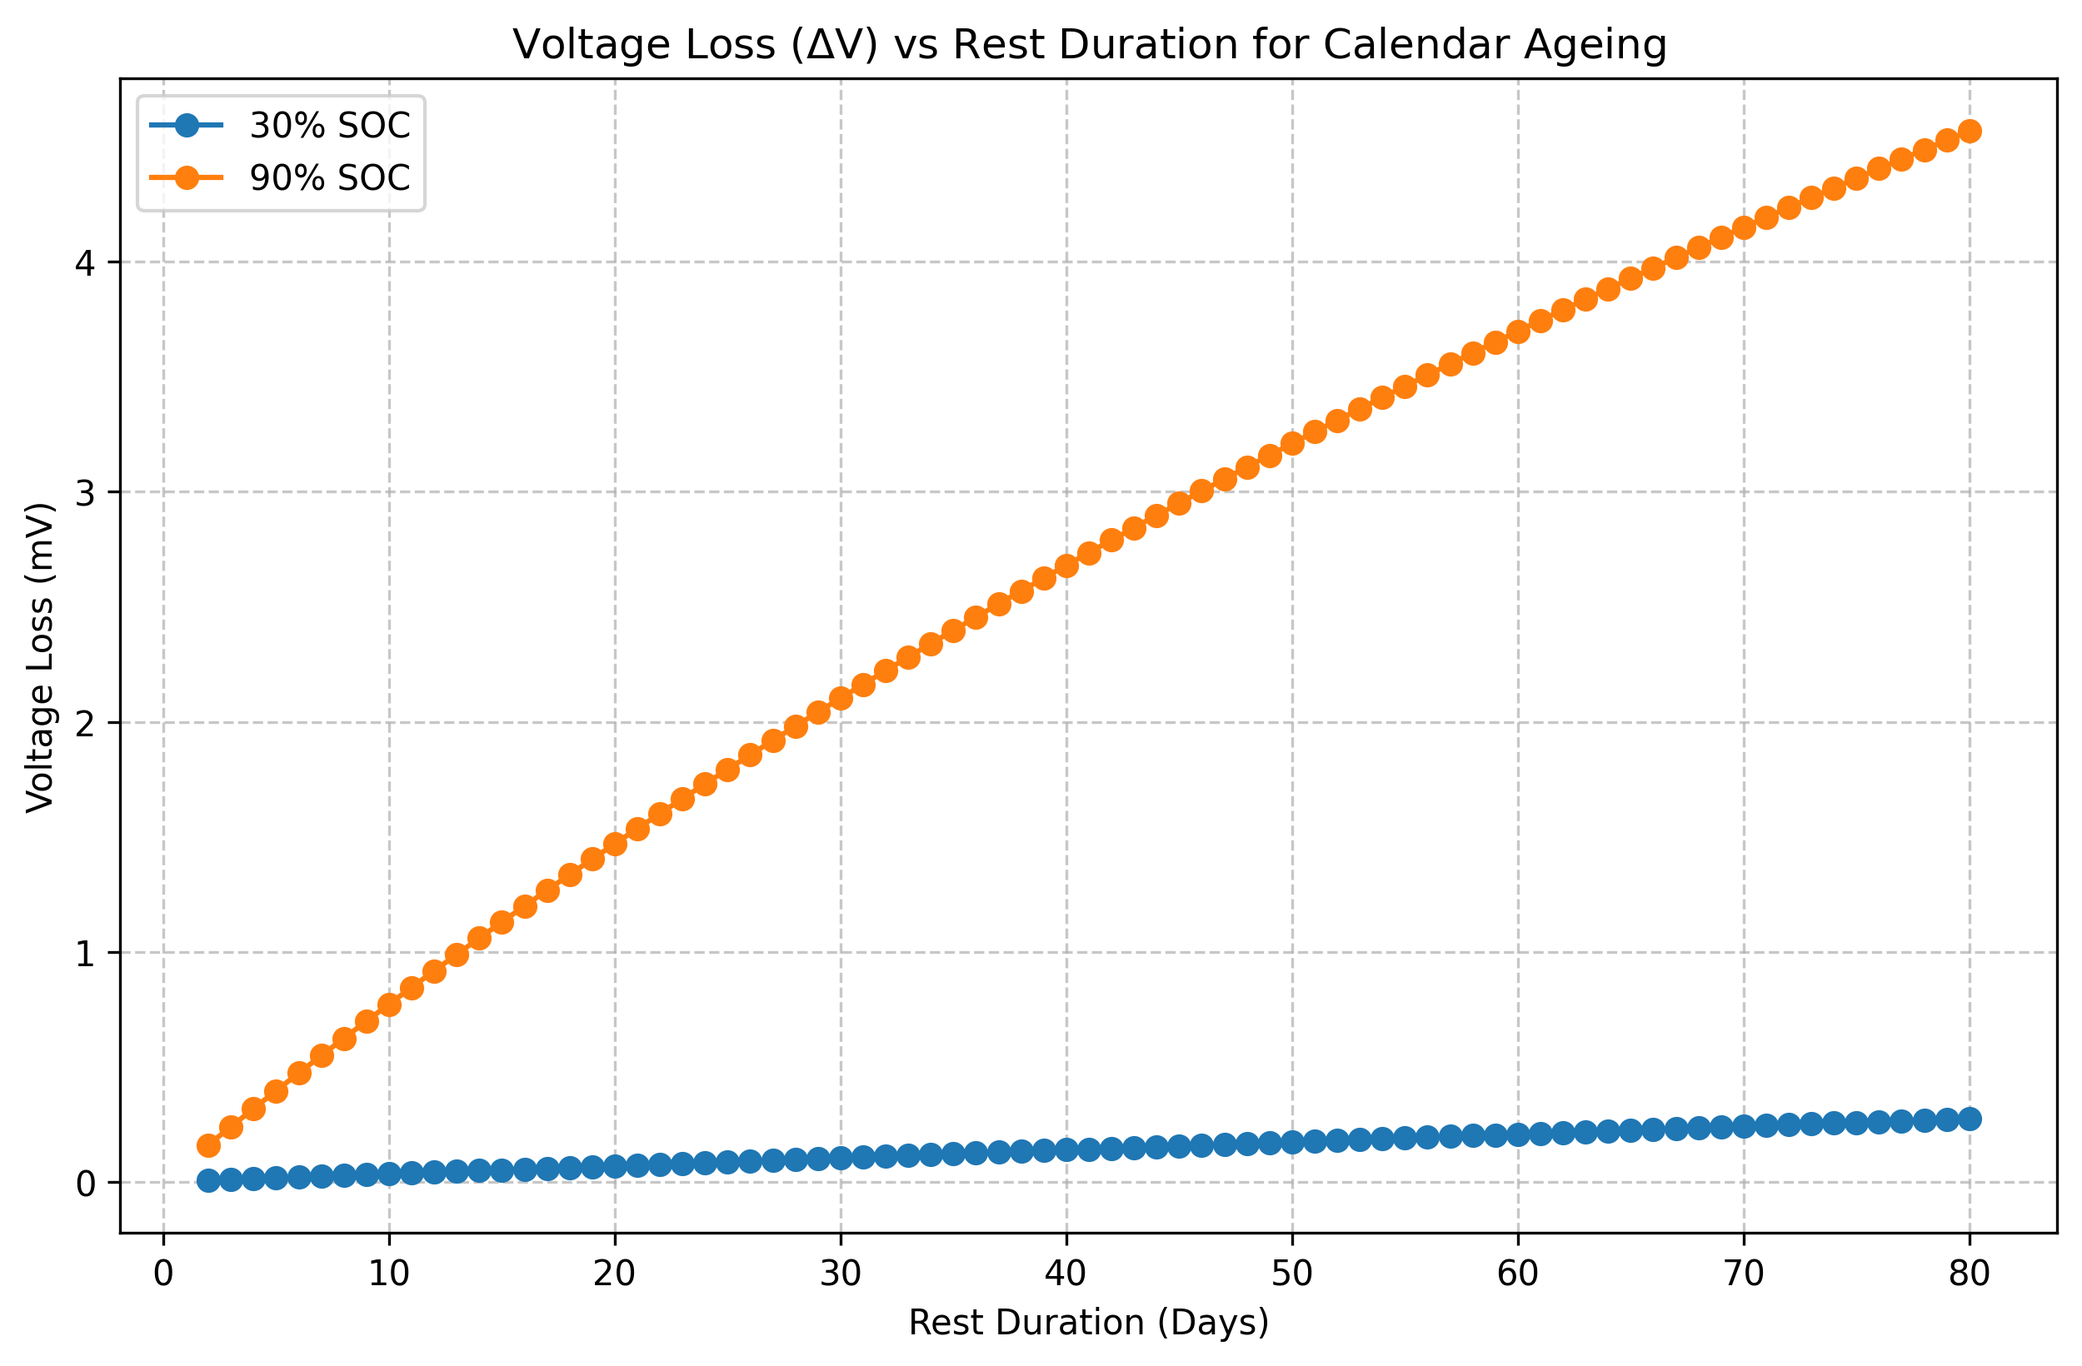
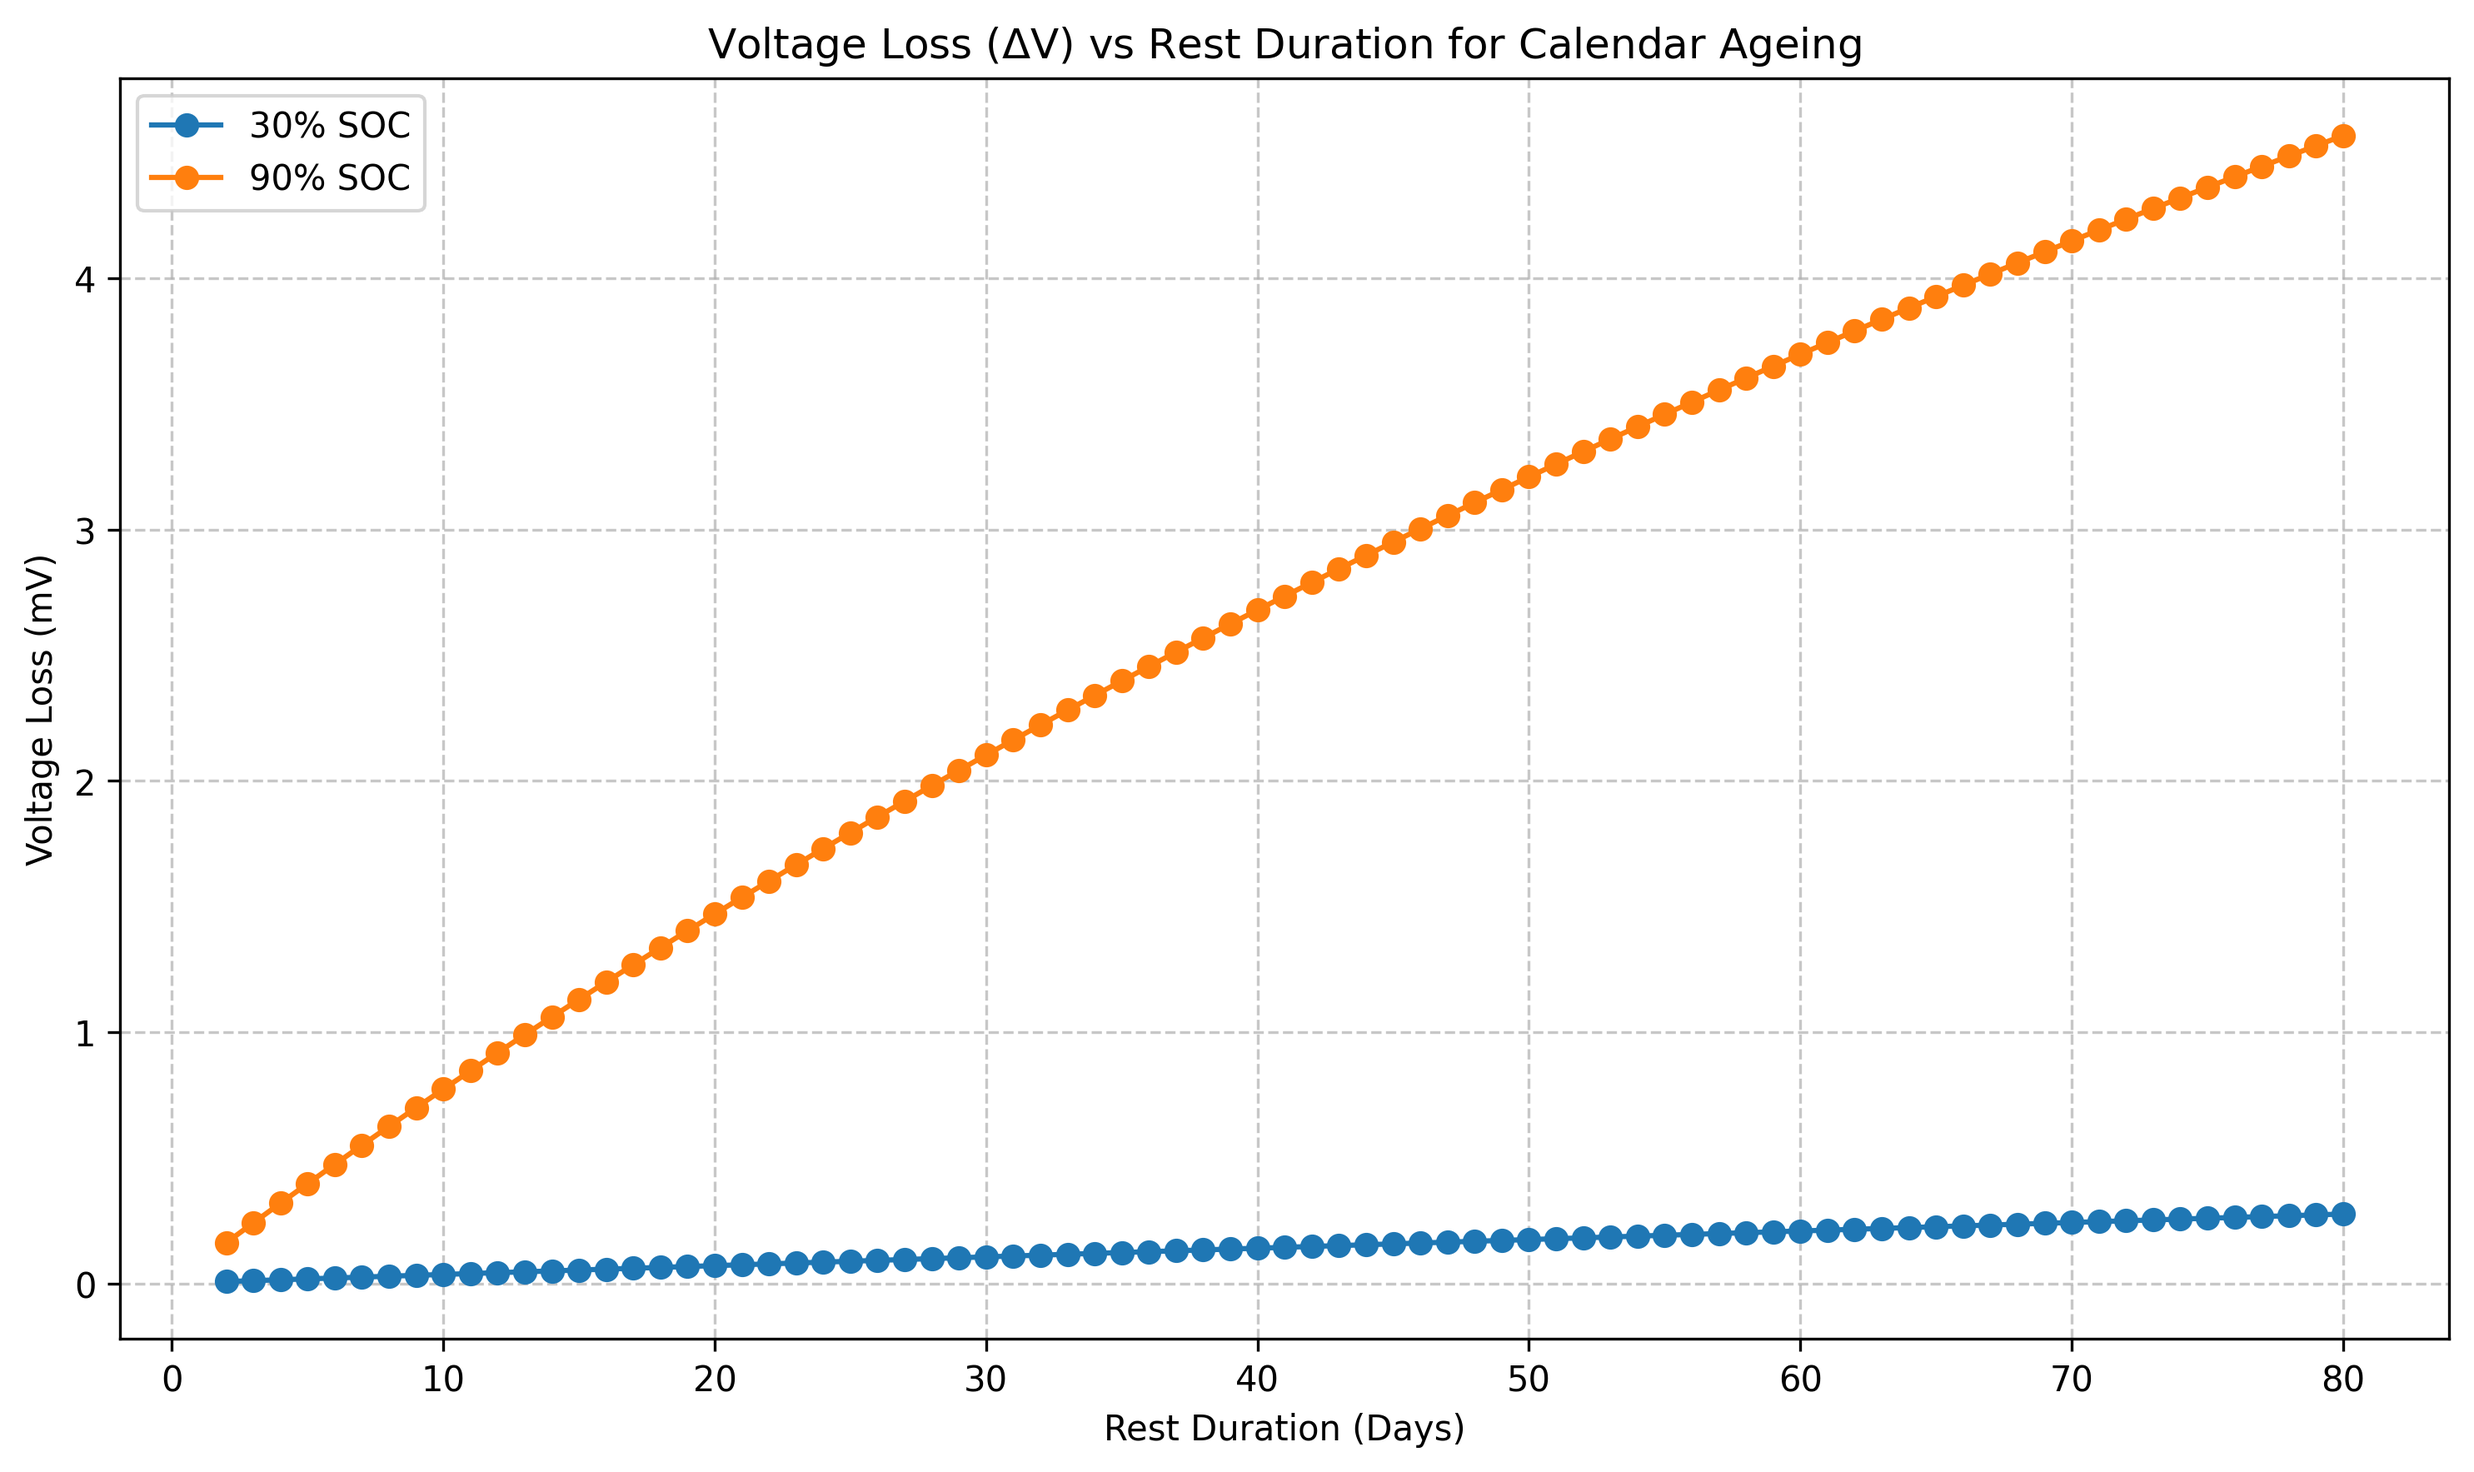
Refactor calendar ageing script for production readiness (argparse, logging, typing)

diff --git a/examples/scripts/calendar_ageing.py b/examples/scripts/calendar_ageing.py
@@ -1,101 +1,203 @@
+"""
+Calendar Ageing Simulation Script for PyBaMM.
+
+This script runs calendar ageing simulations using the Doyle-Fuller-Newman (DFN) model
+with reaction-limited SEI growth. It evaluates voltage loss across specified rest
+durations and Initial States of Charge (SOC), exporting results to a CSV and generating
+a comparative plot.
+
+Optimized for parallel execution using Python's concurrent.futures.
+"""
+
+import argparse
+import concurrent.futures
+import csv
+import logging
+import time
+from pathlib import Path
+from typing import List, Tuple, Optional, Any
+
+import matplotlib.pyplot as plt
 import numpy as np
 import pybamm as pb
-import concurrent.futures
-import time
-import csv
-import matplotlib.pyplot as plt
-from pathlib import Path
 
-pb.set_logging_level("WARNING")
 
-def run_simulation(args):
+def setup_logger(verbose: bool) -> logging.Logger:
+    """Configure logging for the script."""
+    level = logging.DEBUG if verbose else logging.INFO
+    logging.basicConfig(
+        level=level,
+        format="%(asctime)s [%(levelname)s] %(message)s",
+        datefmt="%Y-%m-%d %H:%M:%S",
+    )
+    # PyBaMM's internal logging
+    pb.set_logging_level("WARNING")
+    return logging.getLogger(__name__)
+
+
+def run_simulation(args: Tuple[int, float]) -> Tuple[float, int, Optional[float], Optional[float], Optional[float], Optional[str]]:
+    """
+    Run a single calendar ageing simulation for a given duration and SOC.
+
+    Args:
+        args: A tuple containing (days, initial_soc).
+
+    Returns:
+        A tuple of (initial_soc, days, voltage_before, voltage_after, delta_v, error_message).
+    """
     days, initial_soc = args
     try:
-        # Create a new DFN model with reaction limited SEI for calendar ageing
+        # Create a new DFN model with reaction limited SEI
         model = pb.lithium_ion.DFN({"SEI": "reaction limited"})
         parameter_values = model.default_parameter_values
-        
+
         # Set current to 0 for rest (calendar ageing)
         parameter_values["Current function [A]"] = 0
-        
+
         # Setup simulation
         sim = pb.Simulation(model, parameter_values=parameter_values)
         solver = pb.IDAKLUSolver()
-        
+
         # Calculate time vector in seconds
         seconds = days * 24 * 60 * 60
         t_eval = np.linspace(0, seconds, 100)
-        
+
         # Solve with specific initial SOC
         sol = sim.solve(t_eval=t_eval, solver=solver, initial_soc=initial_soc)
-        
+
         # Extract voltage data
         voltage = sol["Voltage [V]"].entries
-        voltage_before = voltage[0]
-        voltage_after = voltage[-1]
+        voltage_before = float(voltage[0])
+        voltage_after = float(voltage[-1])
         delta_v = voltage_before - voltage_after
-        
-        return initial_soc, days, voltage_before, voltage_after, delta_v
-    except Exception as e:
-        return initial_soc, days, None, None, str(e)
 
-if __name__ == "__main__":
-    socs_to_test = [0.3, 0.9]
-    day_range = list(range(2, 81))
-    
+        return initial_soc, days, voltage_before, voltage_after, delta_v, None
+    except Exception as e:
+        return initial_soc, days, None, None, None, str(e)
+
+
+def main() -> None:
+    """Main execution function."""
+    parser = argparse.ArgumentParser(description="Run calendar ageing simulations in PyBaMM.")
+    parser.add_argument(
+        "--socs",
+        nargs="+",
+        type=float,
+        default=[0.3, 0.9],
+        help="List of Initial States of Charge to test (default: 0.3 0.9)",
+    )
+    parser.add_argument(
+        "--min-days",
+        type=int,
+        default=2,
+        help="Minimum rest duration in days (default: 2)",
+    )
+    parser.add_argument(
+        "--max-days",
+        type=int,
+        default=80,
+        help="Maximum rest duration in days (default: 80)",
+    )
+    parser.add_argument(
+        "--output-dir",
+        type=str,
+        default=".",
+        help="Directory to save output files (default: current directory)",
+    )
+    parser.add_argument(
+        "-v",
+        "--verbose",
+        action="store_true",
+        help="Enable verbose logging",
+    )
+    args = parser.parse_args()
+
+    logger = setup_logger(args.verbose)
+
+    socs_to_test: List[float] = args.socs
+    day_range: List[int] = list(range(args.min_days, args.max_days + 1))
+    output_dir = Path(__file__).parent if args.output_dir == "." else Path(args.output_dir)
+    output_dir.mkdir(parents=True, exist_ok=True)
+
     # Create an array of argument tuples for parallel execution
-    simulation_args = []
-    for soc in socs_to_test:
-        for days in day_range:
-            simulation_args.append((days, soc))
-    
+    simulation_args = [(days, soc) for soc in socs_to_test for days in day_range]
+
+    logger.info(
+        f"Starting simulations for SOCs {socs_to_test} across {len(day_range)} "
+        f"durations ({args.min_days} to {args.max_days} days)..."
+    )
     start_time = time.time()
-    
-    print(f"Starting simulations for SOCs {socs_to_test} across {len(day_range)} durations...")
-    
+
+    results_dict: dict[float, dict[str, List[Any]]] = {
+        soc: {"days": [], "delta_v": []} for soc in socs_to_test
+    }
+    csv_rows: List[List[Any]] = []
+
     # Process all combinations in parallel
-    results_dict = {soc: {"days": [], "delta_v": []} for soc in socs_to_test}
-    csv_rows = []
-    
     with concurrent.futures.ProcessPoolExecutor() as executor:
-        # Map ensures the results are returned in the exact order of simulation_args
         results = list(executor.map(run_simulation, simulation_args))
-        
-    print(f"\nTotal simulation execution time: {time.time() - start_time:.2f} seconds\n")
-    
+
+    execution_time = time.time() - start_time
+    logger.info(f"Total simulation execution time: {execution_time:.2f} seconds")
+
     # Process results locally and populate data structures for CSV and Plotting
     for res in results:
-        soc, days, v_before, v_after, d_v = res
-        if v_before is None:
-            print(f"Error for SOC {soc:.0%} at {days} days: {d_v}")
-        else:
-            results_dict[soc]["days"].append(days)
-            results_dict[soc]["delta_v"].append(d_v)
-            csv_rows.append([soc, days, v_before, v_after, d_v])
+        soc, days, v_before, v_after, d_v, error = res
+        if error or v_before is None or v_after is None or d_v is None:
+            logger.error(f"Error for SOC {soc:.0%} at {days} days: {error}")
+            continue
+
+        results_dict[soc]["days"].append(days)
+        results_dict[soc]["delta_v"].append(d_v)
+        csv_rows.append([soc, days, v_before, v_after, d_v])
 
     # 1. Write to CSV
-    csv_filename = Path(__file__).parent / "calendar_ageing_results.csv"
-    with open(csv_filename, mode='w', newline='') as file:
-        writer = csv.writer(file)
-        writer.writerow(["Initial SOC", "Days", "Voltage Before (V)", "Voltage After (V)", "Delta V (V)"])
-        writer.writerows(csv_rows)
-    print(f"Results successfully saved to: {csv_filename}")
-    
+    csv_filename = output_dir / "calendar_ageing_results.csv"
+    try:
+        with open(csv_filename, mode="w", newline="", encoding="utf-8") as file:
+            writer = csv.writer(file)
+            writer.writerow(
+                ["Initial SOC", "Days", "Voltage Before (V)", "Voltage After (V)", "Delta V (V)"]
+            )
+            writer.writerows(csv_rows)
+        logger.info(f"Results successfully saved to: {csv_filename}")
+    except IOError as e:
+        logger.error(f"Failed to write CSV file to {csv_filename}: {e}")
+
     # 2. Plotting the results
     plt.figure(figsize=(10, 6))
-    
+
     for soc in socs_to_test:
-        # Need to put delta_v into millivolts for better readability
+        if not results_dict[soc]["days"]:
+            logger.warning(f"No successful simulations to plot for SOC {soc:.0%}")
+            continue
+
+        # Convert delta_v to millivolts for better readability
         delta_v_mv = [dv * 1000 for dv in results_dict[soc]["delta_v"]]
-        plt.plot(results_dict[soc]["days"], delta_v_mv, marker='o', label=f"{soc * 100:.0f}% SOC")
-        
+        plt.plot(
+            results_dict[soc]["days"],
+            delta_v_mv,
+            marker="o",
+            linestyle="-",
+            label=f"{soc * 100:.0f}% SOC",
+        )
+
     plt.title("Voltage Loss ($\Delta$V) vs Rest Duration for Calendar Ageing")
     plt.xlabel("Rest Duration (Days)")
     plt.ylabel("Voltage Loss (mV)")
-    plt.grid(True, linestyle='--', alpha=0.7)
+    plt.grid(True, linestyle="--", alpha=0.7)
     plt.legend()
-    
-    plot_filename = Path(__file__).parent / "calendar_ageing_plot.png"
-    plt.savefig(plot_filename, dpi=300, bbox_inches='tight')
-    print(f"Plot successfully saved to: {plot_filename}")
+    plt.tight_layout()
 
+    plot_filename = output_dir / "calendar_ageing_plot.png"
+    try:
+        plt.savefig(plot_filename, dpi=300, bbox_inches="tight")
+        logger.info(f"Plot successfully saved to: {plot_filename}")
+    except IOError as e:
+        logger.error(f"Failed to save plot to {plot_filename}: {e}")
+    finally:
+        plt.close()
+
+
+if __name__ == "__main__":
+    main()
